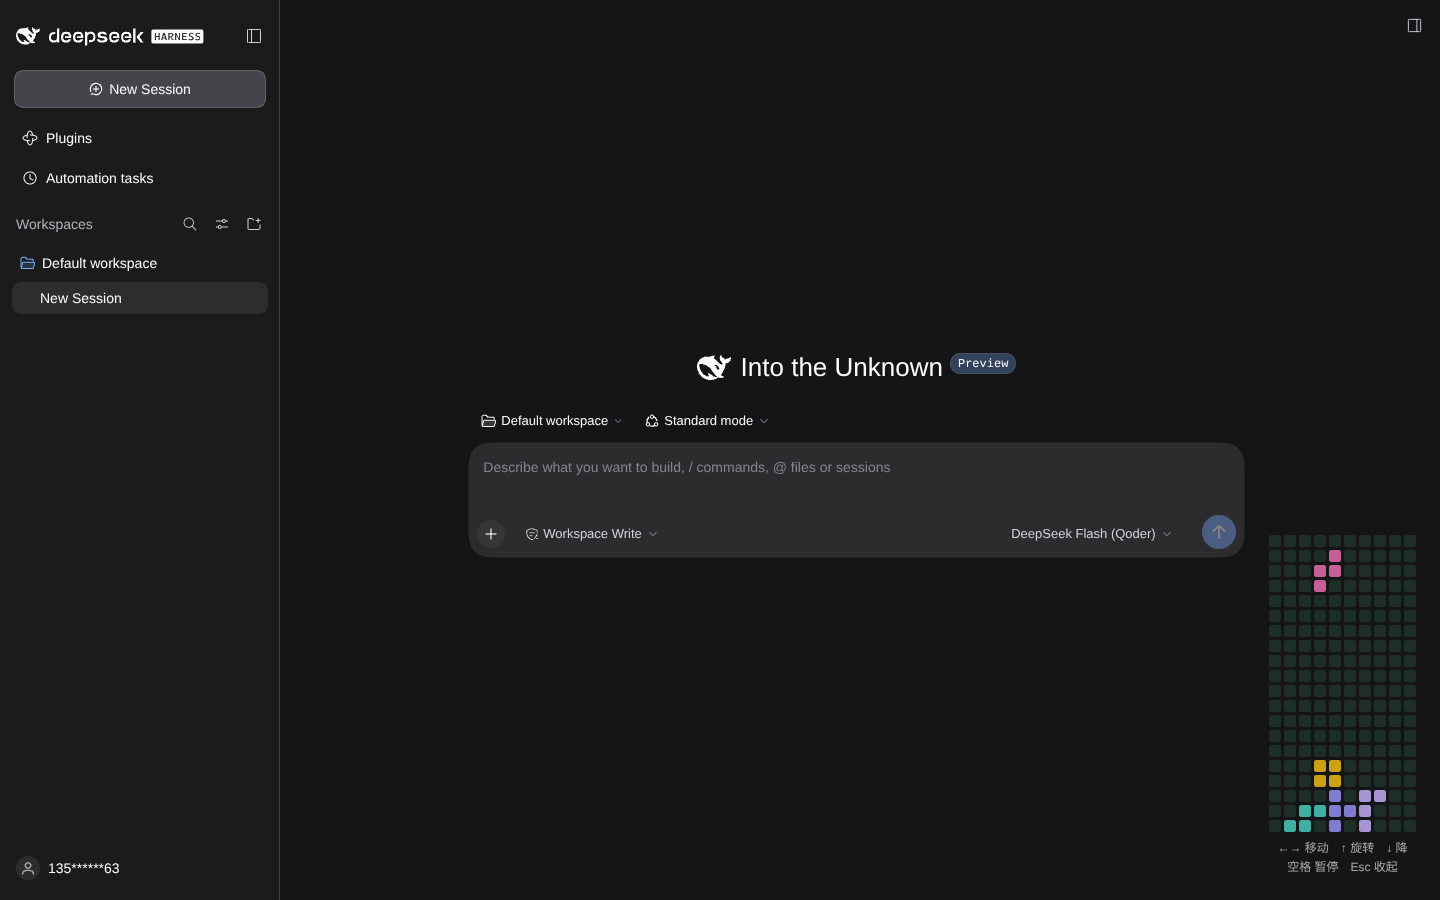
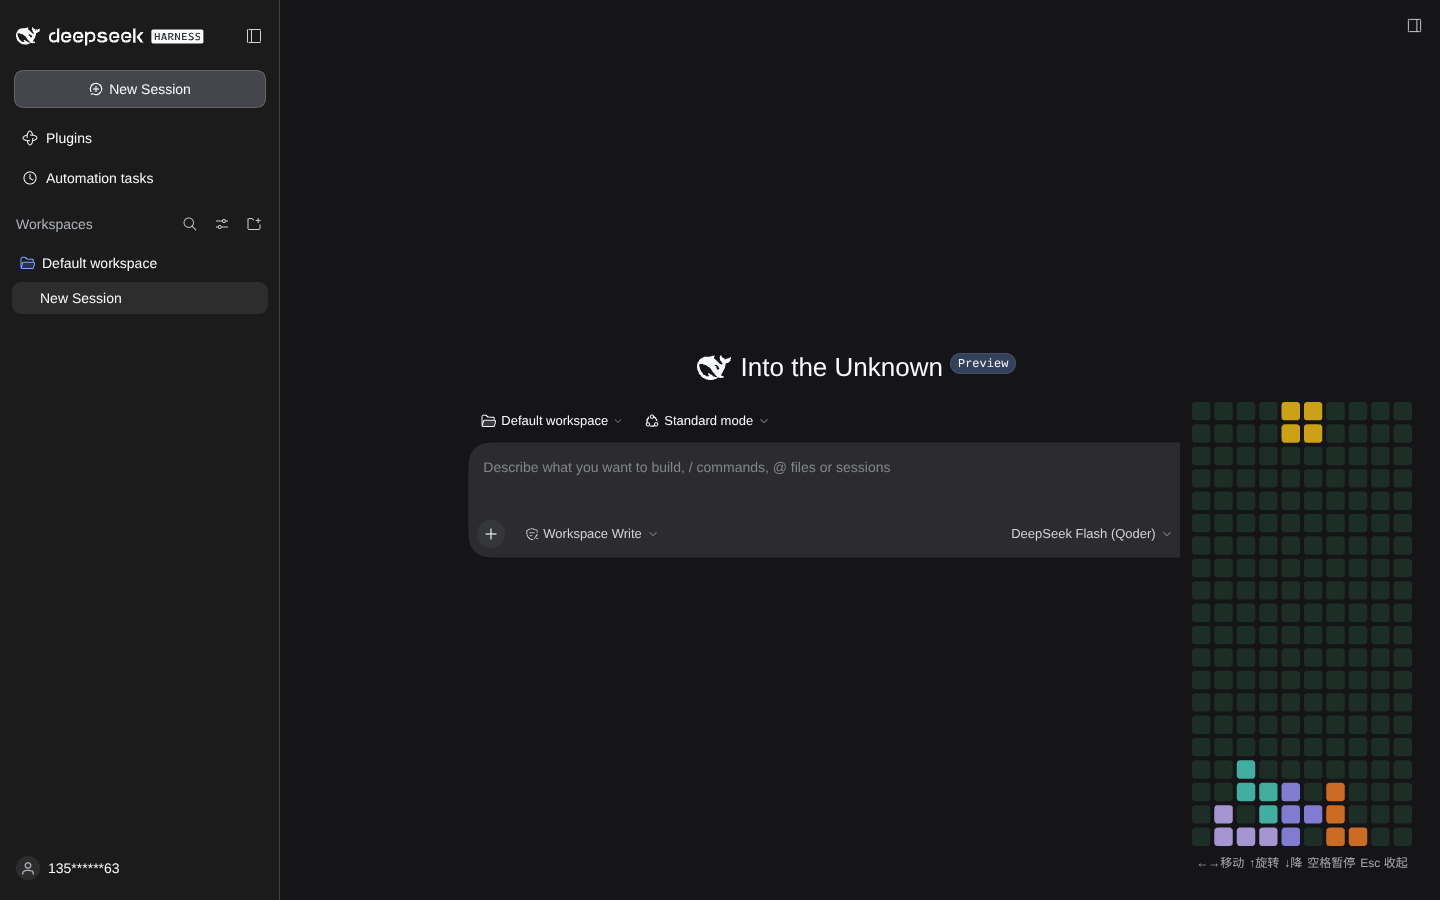
feat: scale panel to 150% and inline footer hints

Changed region(s): [[0.8125, 0.4356, 1.0, 0.9644]]

diff --git a/src/client.js b/src/client.js
@@ -47,8 +47,8 @@ window.__ModuleLoader__.load({
       Z: '#f472b6',
     })
 
-    const CELL_GAP = 3
-    const CELL_RADIUS = 2
+    const CELL_GAP = 4
+    const CELL_RADIUS = 3
     const BLOCK_ALPHA = 0.8
 
     function emptyRow() {
@@ -439,8 +439,8 @@ window.__ModuleLoader__.load({
         -webkit-appearance: none;
         display: grid;
         place-items: center;
-        width: 32px;
-        height: 32px;
+        width: 48px;
+        height: 48px;
         padding: 0;
         border: 0;
         border-radius: 0;
@@ -452,8 +452,8 @@ window.__ModuleLoader__.load({
       .dsh-tetris-launch::before {
         content: "";
         display: block;
-        width: 16px;
-        height: 16px;
+        width: 24px;
+        height: 24px;
         border-radius: 0;
         background: #605ce5;
       }
@@ -470,7 +470,7 @@ window.__ModuleLoader__.load({
         width: fit-content;
         max-width: calc(100vw - 24px);
         max-height: calc(100dvh - 24px);
-        padding: 8px;
+        padding: 12px;
         border: 0;
         border-radius: 0;
         background: var(--dsw-alias-bg-base, #fff);
@@ -486,7 +486,7 @@ window.__ModuleLoader__.load({
         position: relative;
         display: flex;
         justify-content: center;
-        width: min(147px, calc(100vw - 48px), calc((100dvh - 96px) / 2.02));
+        width: min(220px, calc(100vw - 48px), calc((100dvh - 88px) / 2.018));
         max-width: 100%;
         overflow: hidden;
         background: transparent;
@@ -495,7 +495,7 @@ window.__ModuleLoader__.load({
         display: block;
         width: 100%;
         height: auto;
-        aspect-ratio: 147 / 297;
+        aspect-ratio: 220 / 444;
         background: transparent;
         --dsh-tetris-empty: #f0f3f2;
         touch-action: none;
@@ -506,37 +506,40 @@ window.__ModuleLoader__.load({
 
       .dsh-tetris-footer {
         display: flex;
-        flex-direction: column;
+        flex-direction: row;
         align-items: center;
         justify-content: center;
+        gap: 8px;
         width: 100%;
-        min-height: 0;
+        min-height: 18px;
         margin-top: 8px;
         padding: 0;
         background: transparent;
+        white-space: nowrap;
       }
       .dsh-tetris-status {
-        margin: 0 0 2px;
+        flex: 0 0 auto;
+        margin: 0;
         color: inherit;
         font-size: 11px;
         font-weight: 500;
-        line-height: 1.4;
-        letter-spacing: .12em;
-        text-align: center;
+        line-height: 1.5;
+        letter-spacing: .08em;
         opacity: .8;
       }
       .dsh-tetris-hint {
         display: flex;
-        flex-direction: column;
+        flex-direction: row;
         align-items: center;
-        gap: 1px;
+        gap: 5px;
         margin: 0;
         color: inherit;
         opacity: .62;
         font-size: 12px;
-        line-height: 1.45;
+        line-height: 1.5;
         letter-spacing: 0;
         text-align: center;
+        white-space: nowrap;
       }
       .dsh-tetris-hint span { white-space: nowrap; }
 
@@ -546,14 +549,14 @@ window.__ModuleLoader__.load({
           bottom: max(12px, env(safe-area-inset-bottom));
         }
         .dsh-tetris-stage {
-          width: min(147px, calc(100vw - 40px), calc((100dvh - 88px) / 2.02));
+          width: min(220px, calc(100vw - 48px), calc((100dvh - 88px) / 2.018));
         }
       }
       @media (max-height: 560px) {
         .dsh-tetris-root { bottom: max(12px, env(safe-area-inset-bottom)); }
         .dsh-tetris-panel { padding: 6px; }
         .dsh-tetris-stage {
-          width: min(147px, calc(100vw - 40px), calc((100dvh - 72px) / 2.02));
+          width: min(220px, calc(100vw - 48px), calc((100dvh - 72px) / 2.018));
         }
         .dsh-tetris-footer { margin-top: 6px; }
       }
@@ -769,8 +772,8 @@ window.__ModuleLoader__.load({
             h('canvas', {
               ref: canvasRef,
               className: 'dsh-tetris-canvas',
-              width: 147,
-              height: 297,
+              width: 220,
+              height: 444,
               'aria-hidden': 'true',
             }),
           ),
@@ -780,18 +783,6 @@ window.__ModuleLoader__.load({
               className: 'dsh-tetris-footer',
               id: 'dsh-tetris-guide',
             },
-            paused || over
-              ? h(
-                  'p',
-                  {
-                    className: 'dsh-tetris-status',
-                    role: 'status',
-                    'aria-live': 'polite',
-                    'aria-atomic': 'true',
-                  },
-                  over ? '游戏结束' : '已暂停',
-                )
-              : null,
             h(
               'p',
               {
@@ -802,13 +793,34 @@ window.__ModuleLoader__.load({
                     ? '空格继续，Esc 收起'
                     : '左、右移动，上旋转，下软降，空格暂停，Esc 收起',
               },
+              paused || over
+                ? h(
+                    'span',
+                    {
+                      className: 'dsh-tetris-status',
+                      role: 'status',
+                      'aria-live': 'polite',
+                      'aria-atomic': 'true',
+                    },
+                    over ? '游戏结束' : '已暂停',
+                  )
+                : null,
               over
-                ? h('span', null, 'R 重新开始　Esc 收起')
+                ? [
+                    h('span', { key: 'restart' }, 'R 重开'),
+                    h('span', { key: 'close' }, 'Esc 收起'),
+                  ]
                 : paused
-                  ? h('span', null, '空格 继续　Esc 收起')
+                  ? [
+                      h('span', { key: 'resume' }, '空格继续'),
+                      h('span', { key: 'close' }, 'Esc 收起'),
+                    ]
                   : [
-                      h('span', { key: 'move' }, '←→ 移动　↑ 旋转　↓ 降'),
-                      h('span', { key: 'system' }, '空格 暂停　Esc 收起'),
+                      h('span', { key: 'move' }, '←→移动'),
+                      h('span', { key: 'rotate' }, '↑旋转'),
+                      h('span', { key: 'drop' }, '↓降'),
+                      h('span', { key: 'pause' }, '空格暂停'),
+                      h('span', { key: 'close' }, 'Esc 收起'),
                     ],
             ),
           ),

diff --git a/README.md b/README.md
@@ -10,13 +10,13 @@
 
 - 10 × 20 标准棋盘，7 种方块，7-bag 随机。
 - 无分数、无等级、无连击，只有最基础的堆叠和消行。
-- 采用 Qoder `PixelBlocksGame` 的格子语言：每格之间是 **3px 透明缝**，格子本身只有 **2px 小圆角**；空格是 sage 底色，实块是 Qoder 调色板的 **80% 透明度**。
+- 采用 Qoder `PixelBlocksGame` 的格子语言：每格之间是透明缝，格子本身只有小圆角；空格是 sage 底色，实块是 Qoder 调色板的 **80% 透明度**。整体放大到约 150% 后，缝为 **4px**、圆角为 **3px**。
 - 不画连续棋盘底、不画表格线、不画点阵、不加阴影；方块是平铺的独立小色块。
 - 面板本身保持直角、纯色、无边框、无阴影。浅色主题下是白色，深色主题下是 `#151517`，避免透明面板和正文重叠。
 - 没有游戏内按钮，也没有标题或角标；暂停/结束状态和操作提示都放在棋盘下方的一行小字里。
 - 打开后键盘接管：方向键移动、旋转、软降；`空格` 暂停或继续。
 - 面板失去焦点、窗口失焦或标签页隐藏时，自动收缩回小方块。
-- 桌面端棋盘 `147 × 297`，面板约 `163 × 355`；右边距和底边距都是 16px，不再是一整页的留白。
+- 桌面端棋盘 `220 × 444`，面板约 `244 × 494`；右边距和底边距都是 16px，不再是一整页的留白。
 - 纯客户端 React 插件，无额外运行时依赖，不需要构建步骤。
 
 ## 环境
@@ -67,10 +67,10 @@ dsh plugin --profile web add "$PWD"
 
 ## 布局与适配
 
-- 桌面端棋盘为 `147 × 297`（12px 格子 + 3px 缝），面板约 `163 × 357`；右边距 16px，底边距 16px。
-- 字体提示为 12px，两行放完移动/旋转/软降/暂停/收起，不再额外占一行标题。
-- 窄屏（`≤ 560px`）下边距收至 12px，棋盘宽度仍为 147px；高度超出视口时按高度等比缩小。
-- 启动方块本身是 `16 × 16` 的纯色方块，外层 `32 × 32` 为点击区域。
+- 桌面端棋盘为 `220 × 444`（约 18.4px 格子 + 4px 缝），面板约 `244 × 494`；右边距 16px，底边距 16px。
+- 字体提示为 12px，移动/旋转/软降/暂停/收起在一行内排开；暂停或结束时状态也接在同一行。
+- 窄屏（`≤ 560px`）下边距收至 12px，棋盘宽度仍为 220px；高度超出视口时按高度等比缩小。
+- 启动方块本身是 `24 × 24` 的纯色方块，外层 `48 × 48` 为点击区域。
 - 棋盘空格色和实块色都来自 Qoder 的调色板；空格色通过 `--dsh-tetris-empty` 跟随 DSH 明暗主题。
 - 暂停或结束时只把棋盘压暗，状态文字放在棋盘下方，不会用一块白色遮罩盖住半个棋盘。
 
@@ -103,7 +103,7 @@ Qoder 的原始小游戏是一个横向的 **53 × 7** 条带，整体 `726 × 9
 
 它的调色板是：蓝 `#3f8ef7`、黄 `#f2c647`、紫 `#605ce5`、青 `#55b5a6`、粉 `#da5597`、薰衣草 `#b49ef9`、橙 `#ea873f`；深色主题对应 `#4ba8ff`、`#fac414`、`#9b96ff`、`#4dd4c4`、`#f472b6`、`#c9b5ff`、`#fa8125`。
 
-本插件借用了它的**视觉语言**（3px 缝、2px 小圆角、sage 空格、80% 调色板、无外框），但保留你指定的 10 × 20 竖向棋盘和 `←→ / ↑ / ↓ / Space / Esc` 操作，没有改用 Qoder 的横向玩法。
+本插件借用了它的**视觉语言**（透明缝、小圆角、sage 空格、80% 调色板、无外框；按 150% 缩放后为 4px 缝、3px 圆角），但保留你指定的 10 × 20 竖向棋盘和 `←→ / ↑ / ↓ / Space / Esc` 操作，没有改用 Qoder 的横向玩法。
 
 参考安装包：<https://qoder-app.oss-cn-beijing.aliyuncs.com/qoder-app/releases/latest/Qoder-CN-linux-amd64.deb>
 
